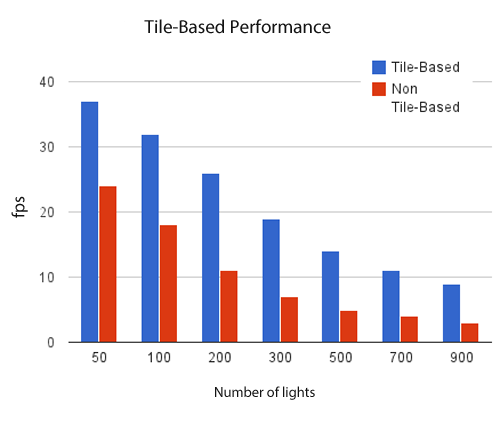
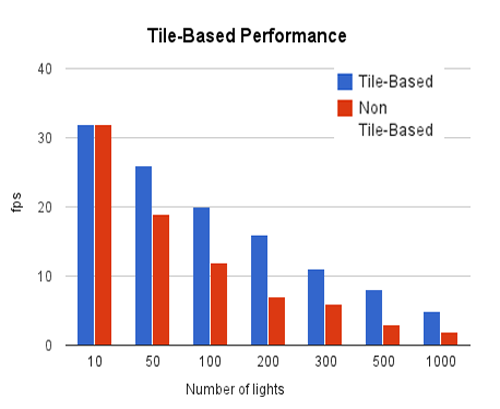
update data

diff --git a/MozillaHacks/DeferredShading/index.html b/MozillaHacks/DeferredShading/index.html
@@ -139,7 +139,7 @@ Even though we initialized the extension in JavaScript with <span class="code">g
 
 <h2>g-buffers</h2>
 <p>
-In our deferred shading implementation using WEBGL_draw_buffers, the g-buffer is composed of four textures: eye-space position, eye-space normal, diffuse color, and depth.  Position, normal, and diffuse use the floating-point RGBA format via the <a href="http://www.khronos.org/registry/webgl/extensions/OES_texture_float/" target="_blank">OES_texture_float extension</a>, and depth uses the unsigned-short <span class="code">DEPTH_COMPONENT</span> format.
+In this sibenik scene, there are 75284 triangles and 4 draw calls. Due to the limitation or greater compatibility for more devices of WebGL 1.0, the vertices for each draw call cannot exceed 65000. Therefore, we need to seperate it into several draw calls. In our deferred shading implementation using WEBGL_draw_buffers, the g-buffer is composed of four textures: eye-space position, eye-space normal, diffuse color, and depth.  Position, normal, and diffuse use the floating-point RGBA format via the <a href="http://www.khronos.org/registry/webgl/extensions/OES_texture_float/" target="_blank">OES_texture_float extension</a>, and depth uses the unsigned-short <span class="code">DEPTH_COMPONENT</span> format.
 </p>
 <p>
 <p>
@@ -172,7 +172,7 @@ All performance numbers in this article use NVIDIA GT 620M in FireFox 25.0.1 on 
 </p>
 <p>
 <img src="DeferredShadingPic7.png"/>
-WEBGL_draw_buffers test scene, shown here with TODO Stanford Dragons.
+There are 100000 triangles and 5 draw calls for each dragon. WEBGL_draw_buffers test scene, shown here with TODO Stanford Dragons.
 </p>
 <p>
 Of course, when scene complexity is very low, like the case of one Stanford Dragon, the cost of the g-buffer pass is low so the savings from WEBGL_draw_buffers are minimal, especially if there are many lights in the scene, which drives up the cost of the light accumulation pass. 
@@ -182,7 +182,7 @@ Deferred shading requires a lot of GPU memory bandwidth, which is not ideal for 
 </p>
 <h2>Tile-Based Deferred Shading</h2>
 <p>
-Tile-based deferred shading takes this a step farther and splits the screen into tiles, for example 16x16 pixels, and then determines which lights influence each tile.  Light-tile information is then passed to the shader and the g-buffer is only read once for all lights. Since this drastically reduces memory bandwidth, it improves performance.  The following graph shows performance for a scene with 200 lights at 800x600 with 16x16 tiles.
+Tile-based deferred shading takes this a step farther and splits the screen into tiles, for example 16x16 pixels, and then determines which lights influence each tile.  Light-tile information is then passed to the shader and the g-buffer is only read once for all lights. Since this drastically reduces memory bandwidth, it improves performance.  The following graph shows performance for a scene with 200 lights at 1024x768 with 32x32 tiles use NVIDIA GT 620M.
 <p>
 <p>
 <img src="DeferredShadingPic5.png"/>
